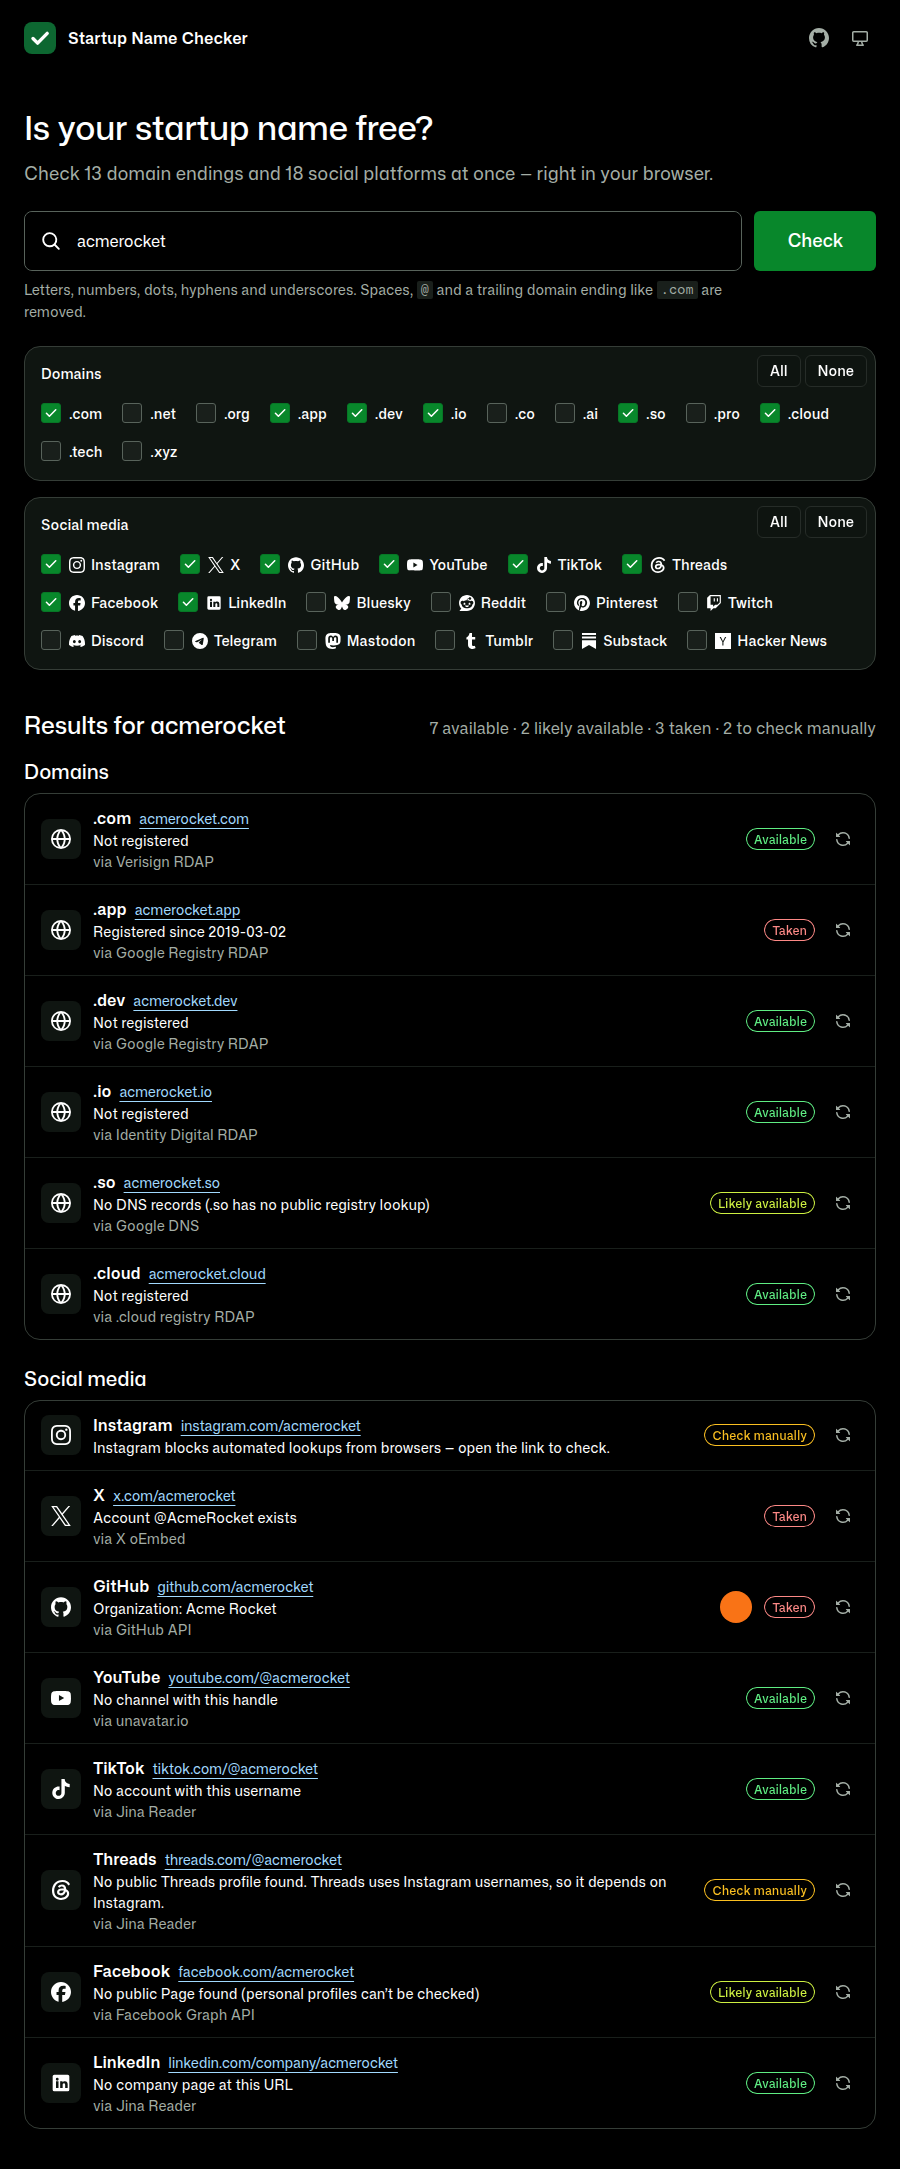
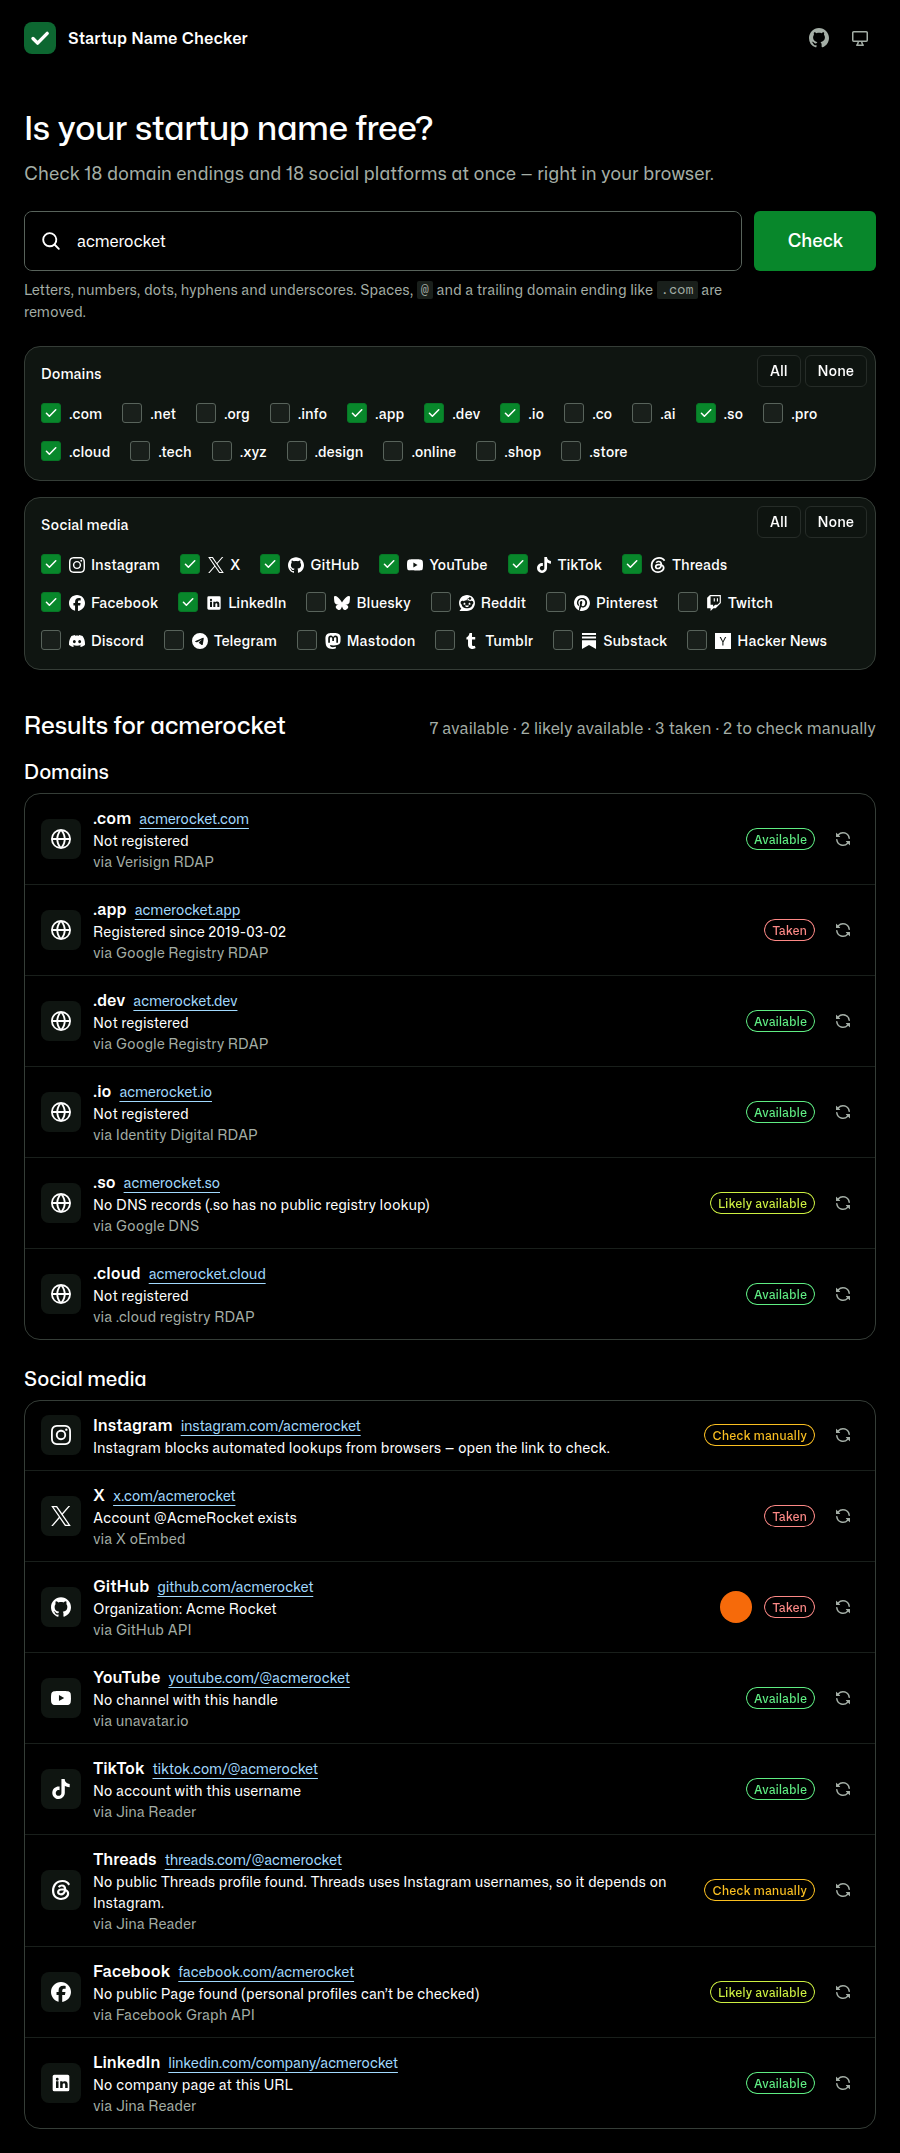
Add .info, .design, .online, .shop and .store domains (#2)

diff --git a/site/index.html b/site/index.html
@@ -3,14 +3,14 @@
 <head>
   <meta charset="utf-8">
   <meta name="viewport" content="width=device-width, initial-scale=1">
-  <meta http-equiv="Content-Security-Policy" content="default-src 'none'; script-src 'self'; style-src 'self'; font-src 'self'; img-src 'self' https: data:; connect-src https://rdap.verisign.com https://rdap.publicinterestregistry.org https://pubapi.registry.google https://rdap.identitydigital.services https://rdap.registry.cloud https://rdap.radix.host https://rdap.centralnic.com https://rdap.org https://dns.google https://api.github.com https://publish.x.com https://api.fxtwitter.com https://www.tiktok.com https://graph.facebook.com https://unavatar.io https://r.jina.ai https://api.microlink.io https://public.api.bsky.app https://www.reddit.com https://widgets.pinterest.com https://api.pinterest.com https://api.ivr.fi https://discord.com https://mastodon.social https://api.tumblr.com https://hacker-news.firebaseio.com; base-uri 'none'; form-action 'self'">
+  <meta http-equiv="Content-Security-Policy" content="default-src 'none'; script-src 'self'; style-src 'self'; font-src 'self'; img-src 'self' https: data:; connect-src https://rdap.verisign.com https://rdap.publicinterestregistry.org https://pubapi.registry.google https://rdap.identitydigital.services https://rdap.registry.cloud https://rdap.radix.host https://rdap.centralnic.com https://rdap.nic.design https://rdap.gmoregistry.net https://rdap.org https://dns.google https://api.github.com https://publish.x.com https://api.fxtwitter.com https://www.tiktok.com https://graph.facebook.com https://unavatar.io https://r.jina.ai https://api.microlink.io https://public.api.bsky.app https://www.reddit.com https://widgets.pinterest.com https://api.pinterest.com https://api.ivr.fi https://discord.com https://mastodon.social https://api.tumblr.com https://hacker-news.firebaseio.com; base-uri 'none'; form-action 'self'">
   <meta name="referrer" content="no-referrer">
   <meta name="color-scheme" content="light dark">
   <title>Startup Name Checker — domains &amp; social handles</title>
-  <meta name="description" content="Check whether a startup name is free as a .com, .net, .org, .app, .dev, .io, .co, .ai, .so, .pro, .cloud, .tech or .xyz domain and on Instagram, X, GitHub, YouTube, TikTok, Threads, Facebook, LinkedIn, Bluesky, Reddit, Pinterest, Twitch, Discord, Telegram, Mastodon, Tumblr, Substack and Hacker News — all at once, right in your browser.">
+  <meta name="description" content="Check whether a startup name is free as a .com, .net, .org, .info, .app, .dev, .io, .co, .ai, .so, .pro, .cloud, .tech, .xyz, .design, .online, .shop or .store domain and on Instagram, X, GitHub, YouTube, TikTok, Threads, Facebook, LinkedIn, Bluesky, Reddit, Pinterest, Twitch, Discord, Telegram, Mastodon, Tumblr, Substack and Hacker News — all at once, right in your browser.">
   <meta property="og:type" content="website">
   <meta property="og:title" content="Startup Name Checker">
-  <meta property="og:description" content="Is your startup name free? Check 13 domain endings and 18 social platforms at once.">
+  <meta property="og:description" content="Is your startup name free? Check 18 domain endings and 18 social platforms at once.">
   <link rel="icon" href="/favicon.svg" type="image/svg+xml">
   <!-- Applies the saved light or dark theme before the first paint. -->
   <script src="/theme.js"></script>

diff --git a/site/App.jsx b/site/App.jsx
@@ -327,10 +327,10 @@ function About() {
           <UnorderedList>
             <UnorderedList.Item>
               <strong>Domain endings</strong> — the registry’s official RDAP service: Verisign for .com and .net, Public
-              Interest Registry for .org, Google Registry for .app and .dev, Identity Digital for .io, .ai and .pro, the
-              .cloud registry, Radix for .tech and CentralNic for .xyz. When one doesn’t answer, rdap.org and Google Public
-              DNS are asked instead. <strong>.co</strong> and <strong>.so</strong> have no public registry lookup, so
-              they’re checked through DNS only.
+              Interest Registry for .org, Identity Digital for .info, .io, .ai and .pro, Google Registry for .app and .dev,
+              the .cloud and .design registries, Radix for .tech, .online and .store, CentralNic for .xyz and GMO Registry
+              for .shop. When one doesn’t answer, rdap.org and Google Public DNS are asked instead. <strong>.co</strong>{' '}
+              and <strong>.so</strong> have no public registry lookup, so they’re checked through DNS only.
             </UnorderedList.Item>
             <UnorderedList.Item>
               <strong>GitHub</strong> — GitHub REST API. <strong>X</strong> — X oEmbed, falling back to FxTwitter.

diff --git a/README.md b/README.md
@@ -1,6 +1,6 @@
 # Startup Name Checker
 
-Check if a startup name is free as a **.com, .net, .org, .app, .dev, .io, .co, .ai, .so, .pro, .cloud, .tech or .xyz** domain and on **18 social platforms**, all at once: Instagram, X, GitHub, YouTube, TikTok, Threads, Facebook, LinkedIn, Bluesky, Reddit, Pinterest, Twitch, Discord, Telegram, Mastodon, Tumblr, Substack and Hacker News.
+Check if a startup name is free as a **.com, .net, .org, .info, .app, .dev, .io, .co, .ai, .so, .pro, .cloud, .tech, .xyz, .design, .online, .shop or .store** domain and on **18 social platforms**, all at once: Instagram, X, GitHub, YouTube, TikTok, Threads, Facebook, LinkedIn, Bluesky, Reddit, Pinterest, Twitch, Discord, Telegram, Mastodon, Tumblr, Substack and Hacker News.
 
 **▶ Try it: <https://dariusz.porowski.dev/startup-name-checker/>**
 
@@ -24,10 +24,12 @@ It's one static page with no backend, no cookies and no tracking. Your browser d
 | `.com`, `.net` | `https://NAME.com` | [Verisign RDAP](https://rdap.verisign.com/), then [rdap.org](https://rdap.org/), then [Google Public DNS](https://developers.google.com/speed/public-dns/docs/doh/json) |
 | `.org` | `https://NAME.org` | Public Interest Registry RDAP, then rdap.org, then Google Public DNS |
 | `.app`, `.dev` | `https://NAME.app` | [Google Registry RDAP](https://pubapi.registry.google/), then rdap.org, then Google Public DNS |
-| `.io`, `.ai`, `.pro` | `https://NAME.io` | [Identity Digital RDAP](https://www.identity.digital/), then rdap.org (except `.io`), then Google Public DNS |
+| `.info`, `.io`, `.ai`, `.pro` | `https://NAME.io` | [Identity Digital RDAP](https://www.identity.digital/), then rdap.org (except `.io`), then Google Public DNS |
 | `.cloud` | `https://NAME.cloud` | .cloud registry RDAP, then rdap.org, then Google Public DNS |
-| `.tech` | `https://NAME.tech` | Radix RDAP, then rdap.org, then Google Public DNS |
+| `.design` | `https://NAME.design` | .design registry RDAP, then rdap.org, then Google Public DNS |
+| `.tech`, `.online`, `.store` | `https://NAME.tech` | Radix RDAP, then rdap.org, then Google Public DNS |
 | `.xyz` | `https://NAME.xyz` | CentralNic RDAP, then rdap.org, then Google Public DNS |
+| `.shop` | `https://NAME.shop` | GMO Registry RDAP, then rdap.org, then Google Public DNS |
 | `.co`, `.so` | `https://NAME.co` | Google Public DNS only, because these endings have no public registry lookup |
 | Instagram | `https://www.instagram.com/NAME` | Instagram blocks lookups from browsers, so open the link to check. Marked **taken** if the handle has a Threads profile. |
 | X | `https://x.com/NAME` | X oEmbed, then [FxTwitter](https://github.com/FxEmbed/FxEmbed) |
@@ -63,7 +65,7 @@ Each result has one of these statuses:
 - Threads uses Instagram usernames, so a Threads profile means the Instagram handle is taken. If there's no Threads profile, Instagram still needs a manual check.
 - Facebook only exposes public **Pages**. Personal profiles are private, so "no Page found" is shown as **Likely available**.
 - `.co` and `.so` are checked through DNS only, so a domain without DNS records shows as **Likely available**. A registered domain can still have no records.
-- The domain endings are the ones startups pick most: the classics (.com, .net, .org), the tech favourites (.io, .ai, .co, .app, .dev, .so, .tech, .xyz), .cloud and .pro.
+- The domain endings are the ones startups pick most: the classics (.com, .net, .org, .info), the tech favourites (.io, .ai, .co, .app, .dev, .so, .tech, .xyz), the ones for shops and studios (.shop, .store, .online, .design), .cloud and .pro.
 - Bluesky is checked for the default `NAME.bsky.social` handle, and Mastodon only on the mastodon.social server. Discord is checked for a custom invite link (`discord.gg/NAME`), which only boosted servers can set; Discord usernames can't be looked up.
 - Reddit blocks lookups from some networks, such as VPNs and cloud providers. The row then says **Check manually**. Names of deleted Reddit accounts can't be registered again.
 - Telegram shows the same page for free, reserved and auctioned usernames, so a name nobody uses is **Likely available**. The Hacker News API is case-sensitive, so "no user" is **Likely available** too.
